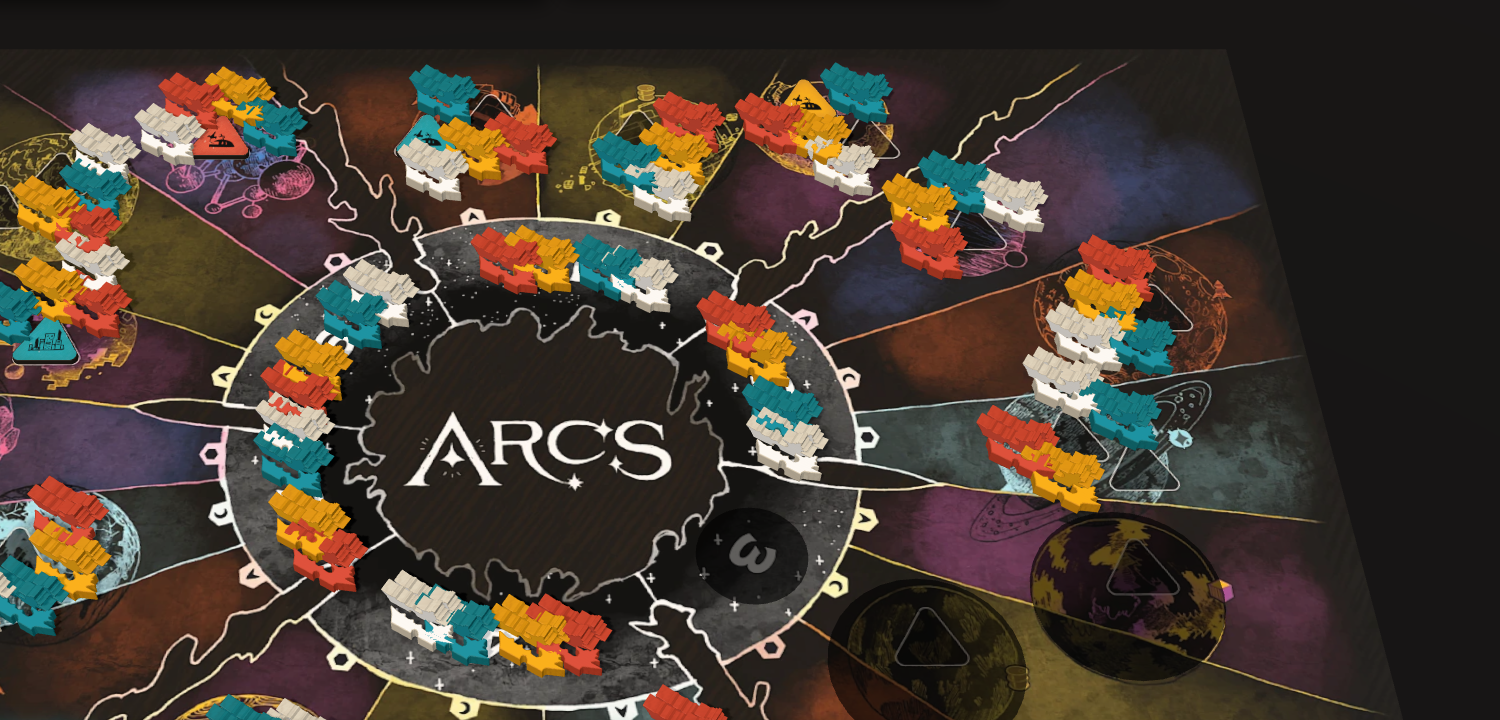
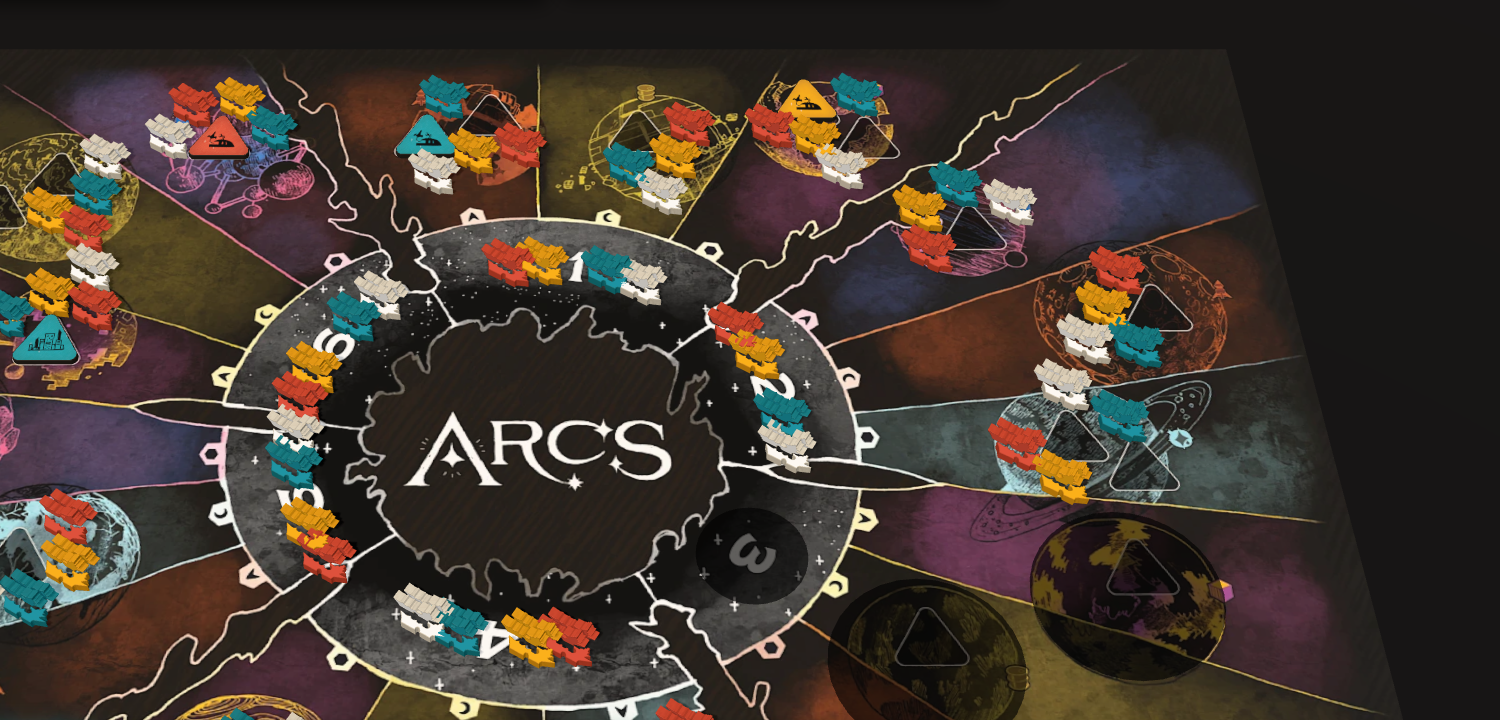
fix: smaller, tidier ship piles in the map zones
Ships in the calibrated zones are drawn at 0.7 of their size and in a
tighter echelon; a pile shows at most 3 ships (one place kept for a
damaged one) and a count tag gives the total.

Story: table roadmap step 2 (map zones)

diff --git a/src/ui/table/board3d.ts b/src/ui/table/board3d.ts
@@ -15,7 +15,7 @@ import type { ContentIndex } from '../../game/engine';
 import { layout } from '../map';
 import { assetUrl } from './assets';
 import defaultCalibration from './board.default.json';
-import { BOARD_DEPTH, boardWidth, buildingSpots, isCalibration, MAX_SHOWN, pileSpots, shipSpot, slotSpots, stackCentres, stackSpots, systemSpots, TILT_FAR, tiltForZoom } from './board3d-layout';
+import { BOARD_DEPTH, boardWidth, buildingSpots, isCalibration, MAX_SHOWN, PILE_SHOWN, pileSpots, shipSpot, slotSpots, stackCentres, stackSpots, systemSpots, TILT_FAR, tiltForZoom } from './board3d-layout';
 import type { BoardCalibration, Spot } from './board3d-layout';
 import { loadKitPieces, piece } from './kitpieces';
 import { boardImageSvg } from './mapview';
@@ -59,6 +59,8 @@ const TILT = TILT_FAR;
 const OWN_SCALE = 1.15;
 /** Scale of the kit's ships on the map (their pictures are larger than the board's scale). */
 const KIT_SHIP_SCALE = 1.15;
+/** Ships in the calibrated ship zones are drawn smaller, closer to the real pieces on the board picture. */
+const ZONE_SHIP_SCALE = 0.7;
 const VALID = new THREE.Color('#5fd4e6');
 const CHOSEN = new THREE.Color('#ffcc66');
 const SURROUND = '#0b0a0c';
@@ -331,10 +333,10 @@ export class Board3D {
           o.position.set(p.x + c.x + sp.dx, 0, p.z + c.z + sp.dz);
           // Turned three-quarters to the viewer, so the profile of a standing ship shows.
           o.rotation.y = -0.55;
-          o.scale.setScalar(o.userData.kit ? KIT_SHIP_SCALE : OWN_SCALE);
+          o.scale.setScalar((o.userData.kit ? KIT_SHIP_SCALE : OWN_SCALE) * (zone ? ZONE_SHIP_SCALE : 1));
           this.pieces.add(o);
         }
-        if (st.fresh + st.damaged > MAX_SHOWN) this.pieces.add(countTag(st.fresh + st.damaged, p.x + c.x, p.z + c.z));
+        if (st.fresh + st.damaged > (zone ? PILE_SHOWN : MAX_SHOWN)) this.pieces.add(countTag(st.fresh + st.damaged, p.x + c.x, p.z + c.z));
       });
       const arc = buildingSpots(s.buildings.length);
       s.buildings.forEach((bd, i) => {

diff --git a/tests/unit/ui/board3d-layout.test.ts b/tests/unit/ui/board3d-layout.test.ts
@@ -2,7 +2,7 @@
 // mapping, schematic fallback, and how ship stacks are laid out.
 import { describe, expect, it } from 'vitest';
 import {
-  BOARD_DEPTH, boardWidth, buildingSpots, isCalibration, MAX_SHOWN, pictureToWorld, pileSpots, shipSpot, schematicToWorld, slotSpots, stackCentres, stackSpots, systemSpots, TILT_FAR, TILT_NEAR, tiltForZoom, worldToPicture,
+  BOARD_DEPTH, boardWidth, buildingSpots, isCalibration, MAX_SHOWN, pictureToWorld, PILE_SHOWN, pileSpots, shipSpot, schematicToWorld, slotSpots, stackCentres, stackSpots, systemSpots, TILT_FAR, TILT_NEAR, tiltForZoom, worldToPicture,
 } from '../../../src/ui/table/board3d-layout';
 
 const PICTURE = { width: 4000, height: 2000 };
@@ -111,18 +111,21 @@ describe('ship zones', () => {
   });
 
   it('keeps a pile within a ship-and-a-half of its point, fresh standing behind damaged', () => {
-    const pile = pileSpots(3, 2);
-    expect(pile).toHaveLength(5);
+    const pile = pileSpots(2, 1);
+    expect(pile).toHaveLength(3);
     for (const s of pile) expect(Math.hypot(s.dx, s.dz)).toBeLessThan(0.3);
     const standing = pile.filter((s) => !s.lying);
     const lying = pile.filter((s) => s.lying);
-    expect(standing).toHaveLength(3);
+    expect(standing).toHaveLength(2);
     expect(Math.max(...standing.map((s) => s.dz))).toBeLessThan(Math.min(...lying.map((s) => s.dz)));
   });
 
-  it('shows at most MAX_SHOWN ships in a pile, fresh first', () => {
-    const pile = pileSpots(MAX_SHOWN + 2, 3);
-    expect(pile).toHaveLength(MAX_SHOWN);
-    expect(pile.every((s) => !s.lying)).toBe(true);
+  it('draws at most PILE_SHOWN ships, keeping one place for a damaged ship', () => {
+    const pile = pileSpots(5, 3);
+    expect(pile).toHaveLength(PILE_SHOWN);
+    expect(pile.filter((s) => s.lying)).toHaveLength(1);
+    expect(pileSpots(5, 0).every((s) => !s.lying)).toBe(true);
+    expect(pileSpots(0, 5).every((s) => s.lying)).toBe(true);
+    expect(pileSpots(0, 5)).toHaveLength(PILE_SHOWN);
   });
 });

diff --git a/src/ui/table/board3d-layout.ts b/src/ui/table/board3d-layout.ts
@@ -101,6 +101,8 @@ export interface ShipSpot {
 
 /** Pieces drawn per stack; more are summed up by a count tag. */
 export const MAX_SHOWN = 6;
+/** Ships drawn in one seat's pile on a calibrated ship zone; more get a count tag. */
+export const PILE_SHOWN = 3;
 
 /**
  * Ships of one seat in one system: fresh ones standing in a row, damaged ones
@@ -118,13 +120,15 @@ export function stackSpots(fresh: number, damaged: number, gap = 0.22): ShipSpot
  * Ships of one seat on its own spot of a system's ship zone: a compact pile
  * that takes little more room than one ship. Fresh ones stand in echelon,
  * each a little behind and to the side of the one before; damaged ones lie in
- * front of them, also in echelon. At most MAX_SHOWN in all (fresh first).
+ * front of them, also in echelon. At most PILE_SHOWN in all: a damaged ship
+ * keeps one place when there is one, the rest go to fresh ones; a count tag
+ * gives the total.
  */
 export function pileSpots(fresh: number, damaged: number): ShipSpot[] {
-  const f = Math.min(fresh, MAX_SHOWN);
-  const d = Math.min(damaged, MAX_SHOWN - f);
-  const standing = Array.from({ length: f }, (_, i) => ({ dx: i * 0.11 - (f - 1) * 0.055, dz: -i * 0.09 - (d ? 0.08 : 0), lying: false }));
-  const lying = Array.from({ length: d }, (_, i) => ({ dx: i * 0.11 - (d - 1) * 0.055, dz: (f ? 0.14 : 0) + i * 0.05, lying: true }));
+  const d = Math.min(damaged, fresh > 0 ? 1 : PILE_SHOWN, PILE_SHOWN);
+  const f = Math.min(fresh, PILE_SHOWN - d);
+  const standing = Array.from({ length: f }, (_, i) => ({ dx: i * 0.09 - (f - 1) * 0.045, dz: -i * 0.07 - (d ? 0.06 : 0), lying: false }));
+  const lying = Array.from({ length: d }, (_, i) => ({ dx: i * 0.09 - (d - 1) * 0.045, dz: (f ? 0.11 : 0) + i * 0.04, lying: true }));
   return [...standing, ...lying];
 }
 
